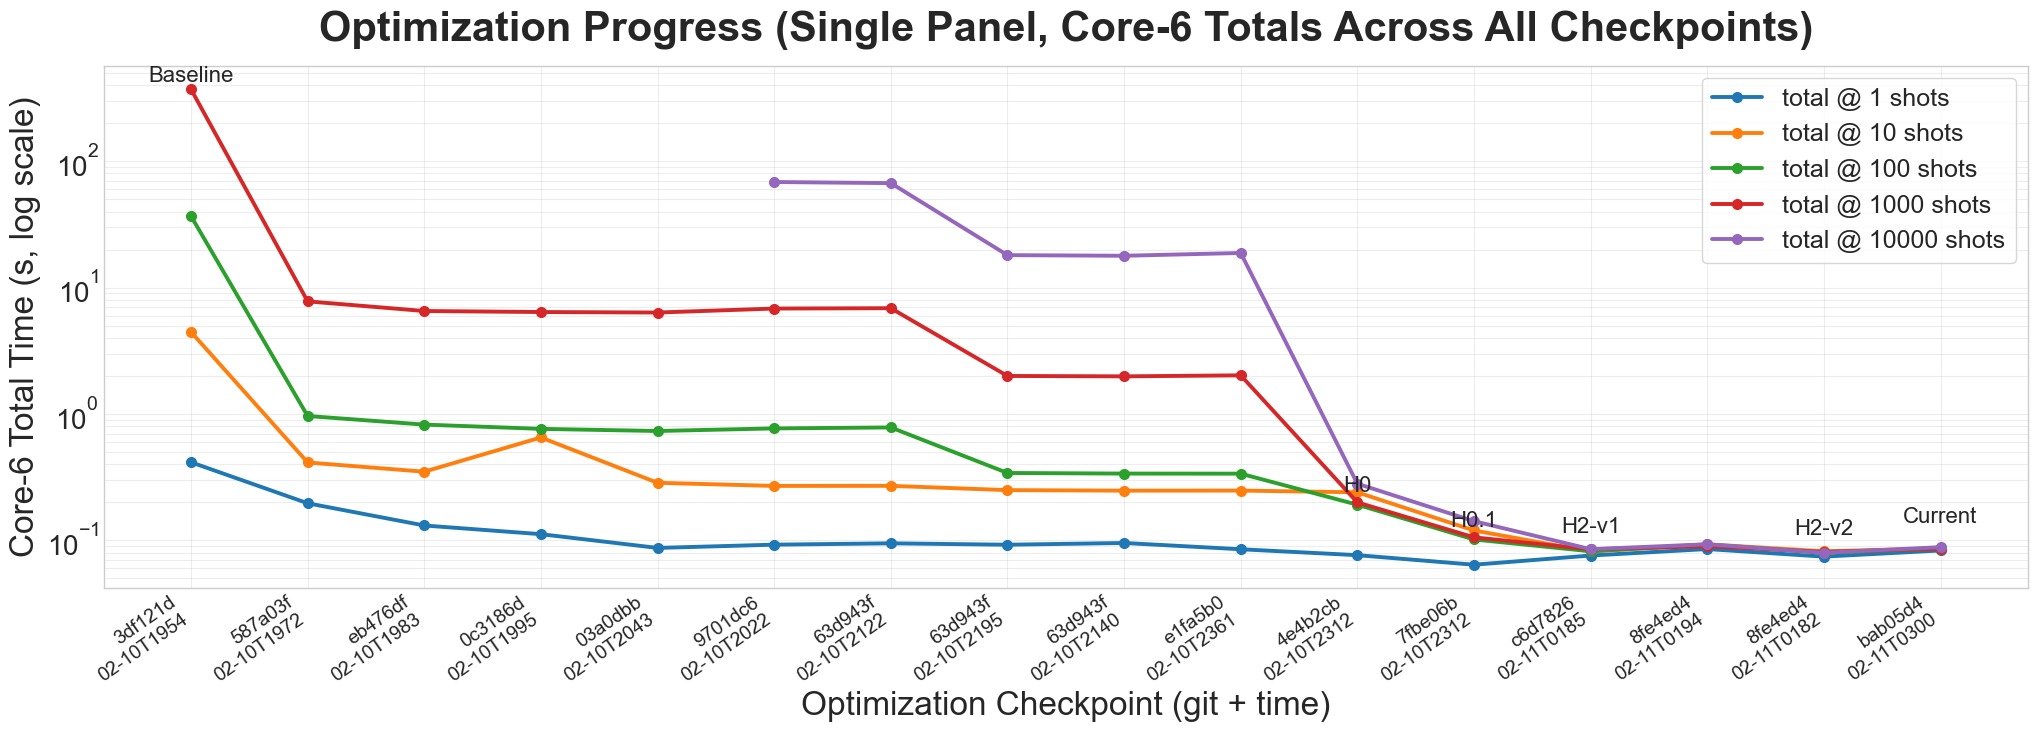
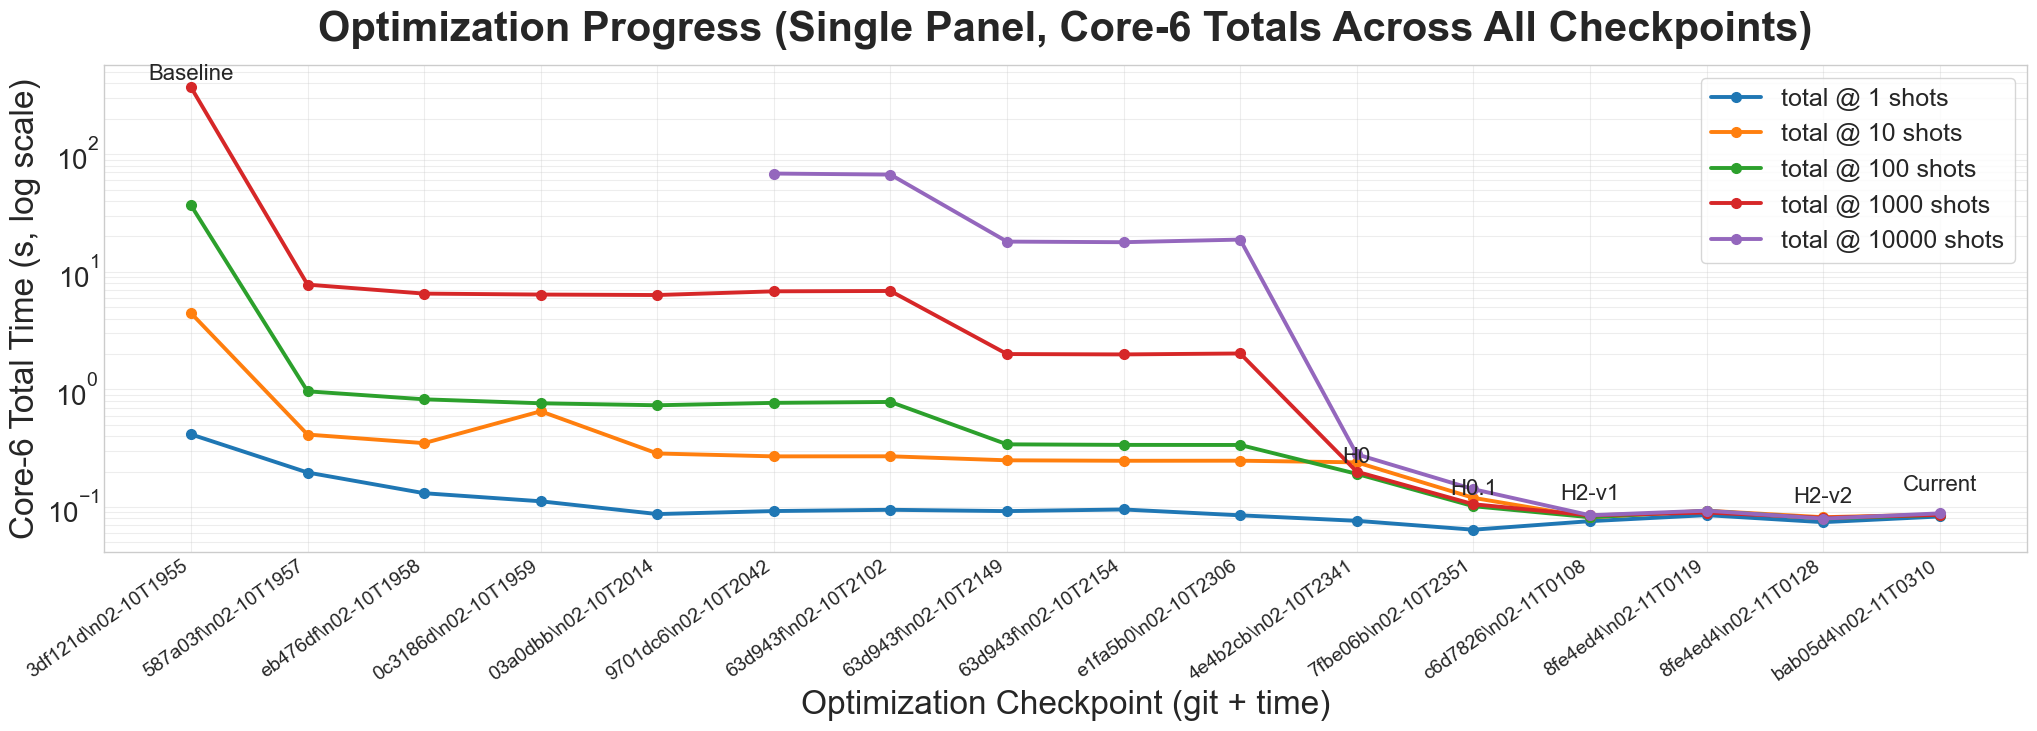
Update optimization progress chart and publish raw core-6 data

diff --git a/docs/optimization-progress-core6-single-panel-data.md b/docs/optimization-progress-core6-single-panel-data.md
@@ -1,0 +1,47 @@
+# Optimization Progress Single-Panel Raw Data (Core-6)
+
+This file contains all points used to generate:
+
+- `docs/images/optimization-progress-core6-single-panel.png`
+
+Data source files are in `benchmarks/results/` and are listed below in plotting order.
+
+## Core-6 Cases Included
+
+- `bell_state`
+- `simple_grovers`
+- `real_grovers`
+- `ghz_state`
+- `qft`
+- `teleportation`
+
+## Plot Metadata
+
+- Y-axis: log scale
+- Series: totals for shot counts `1`, `10`, `100`, `1000`, `10000`
+- `label_x`: exact x-axis text (`git_hash` + compact timestamp)
+- `annotation`: callout labels drawn on the chart
+
+| idx | checkpoint_jsonl | git_hash | label_x | total_1_s | total_10_s | total_100_s | total_1000_s | total_10000_s | annotation |
+|---:|---|---|---|---:|---:|---:|---:|---:|---|
+| 0 | `2026-02-10T195547.jsonl` | `3df121d` | `3df121d\n02-10T1955` | 0.4152 | 4.4596 | 36.8003 | 370.9927 | null | Baseline |
+| 1 | `2026-02-10T195724.jsonl` | `587a03f` | `587a03f\n02-10T1957` | 0.1967 | 0.4135 | 0.9643 | 7.7868 | null |  |
+| 2 | `2026-02-10T195839.jsonl` | `eb476df` | `eb476df\n02-10T1958` | 0.1312 | 0.3496 | 0.8244 | 6.5297 | null |  |
+| 3 | `2026-02-10T195955.jsonl` | `0c3186d` | `0c3186d\n02-10T1959` | 0.1120 | 0.6522 | 0.7629 | 6.4103 | null |  |
+| 4 | `2026-02-10T201437.jsonl` | `03a0dbb` | `03a0dbb\n02-10T2014` | 0.0872 | 0.2855 | 0.7337 | 6.3512 | null |  |
+| 5 | `2026-02-10T204227.jsonl` | `9701dc6` | `9701dc6\n02-10T2042` | 0.0925 | 0.2698 | 0.7693 | 6.8295 | 68.4851 |  |
+| 6 | `2026-02-10T210225.jsonl` | `63d943f` | `63d943f\n02-10T2102` | 0.0948 | 0.2702 | 0.7829 | 6.8750 | 67.1232 |  |
+| 7 | `2026-02-10T214958.jsonl` | `63d943f` | `63d943f\n02-10T2149` | 0.0924 | 0.2498 | 0.3415 | 2.0002 | 18.0746 |  |
+| 8 | `2026-02-10T215408.jsonl` | `63d943f` | `63d943f\n02-10T2154` | 0.0954 | 0.2475 | 0.3378 | 1.9856 | 17.8640 |  |
+| 9 | `2026-02-10T230611.jsonl` | `e1fa5b0` | `e1fa5b0\n02-10T2306` | 0.0851 | 0.2479 | 0.3373 | 2.0226 | 18.7998 |  |
+| 10 | `2026-02-10T234124.jsonl` | `4e4b2cb` | `4e4b2cb\n02-10T2341` | 0.0764 | 0.2400 | 0.1916 | 0.1999 | 0.2809 | H0 |
+| 11 | `2026-02-10T235128.jsonl` | `7fbe06b` | `7fbe06b\n02-10T2351` | 0.0642 | 0.1198 | 0.1017 | 0.1057 | 0.1419 | H0.1 |
+| 12 | `2026-02-11T010850.jsonl` | `c6d7826` | `c6d7826\n02-11T0108` | 0.0759 | 0.0817 | 0.0820 | 0.0850 | 0.0852 | H2-v1 |
+| 13 | `2026-02-11T011947.jsonl` | `8fe4ed4` | `8fe4ed4\n02-11T0119` | 0.0854 | 0.0932 | 0.0926 | 0.0899 | 0.0932 |  |
+| 14 | `2026-02-11T012820.jsonl` | `8fe4ed4` | `8fe4ed4\n02-11T0128` | 0.0744 | 0.0820 | 0.0799 | 0.0811 | 0.0798 | H2-v2 |
+| 15 | `2026-02-11T031009.jsonl` | `bab05d4` | `bab05d4\n02-11T0310` | 0.0832 | 0.0865 | 0.0858 | 0.0859 | 0.0884 | Current |
+
+## Notes
+
+- `null` means the checkpoint did not record that shot count for at least one core-6 case.
+- The plotted line for a series is therefore discontinuous where `null` appears.

diff --git a/README.md b/README.md
@@ -103,6 +103,8 @@ Latest full benchmark artifact:
 
 ![Optimization progress (single panel)](docs/images/optimization-progress-core6-single-panel.png)
 
+Raw data: `docs/optimization-progress-core6-single-panel-data.md`.
+
 Progress summary:
 
 | Scope | Baseline | Latest | Speedup |
